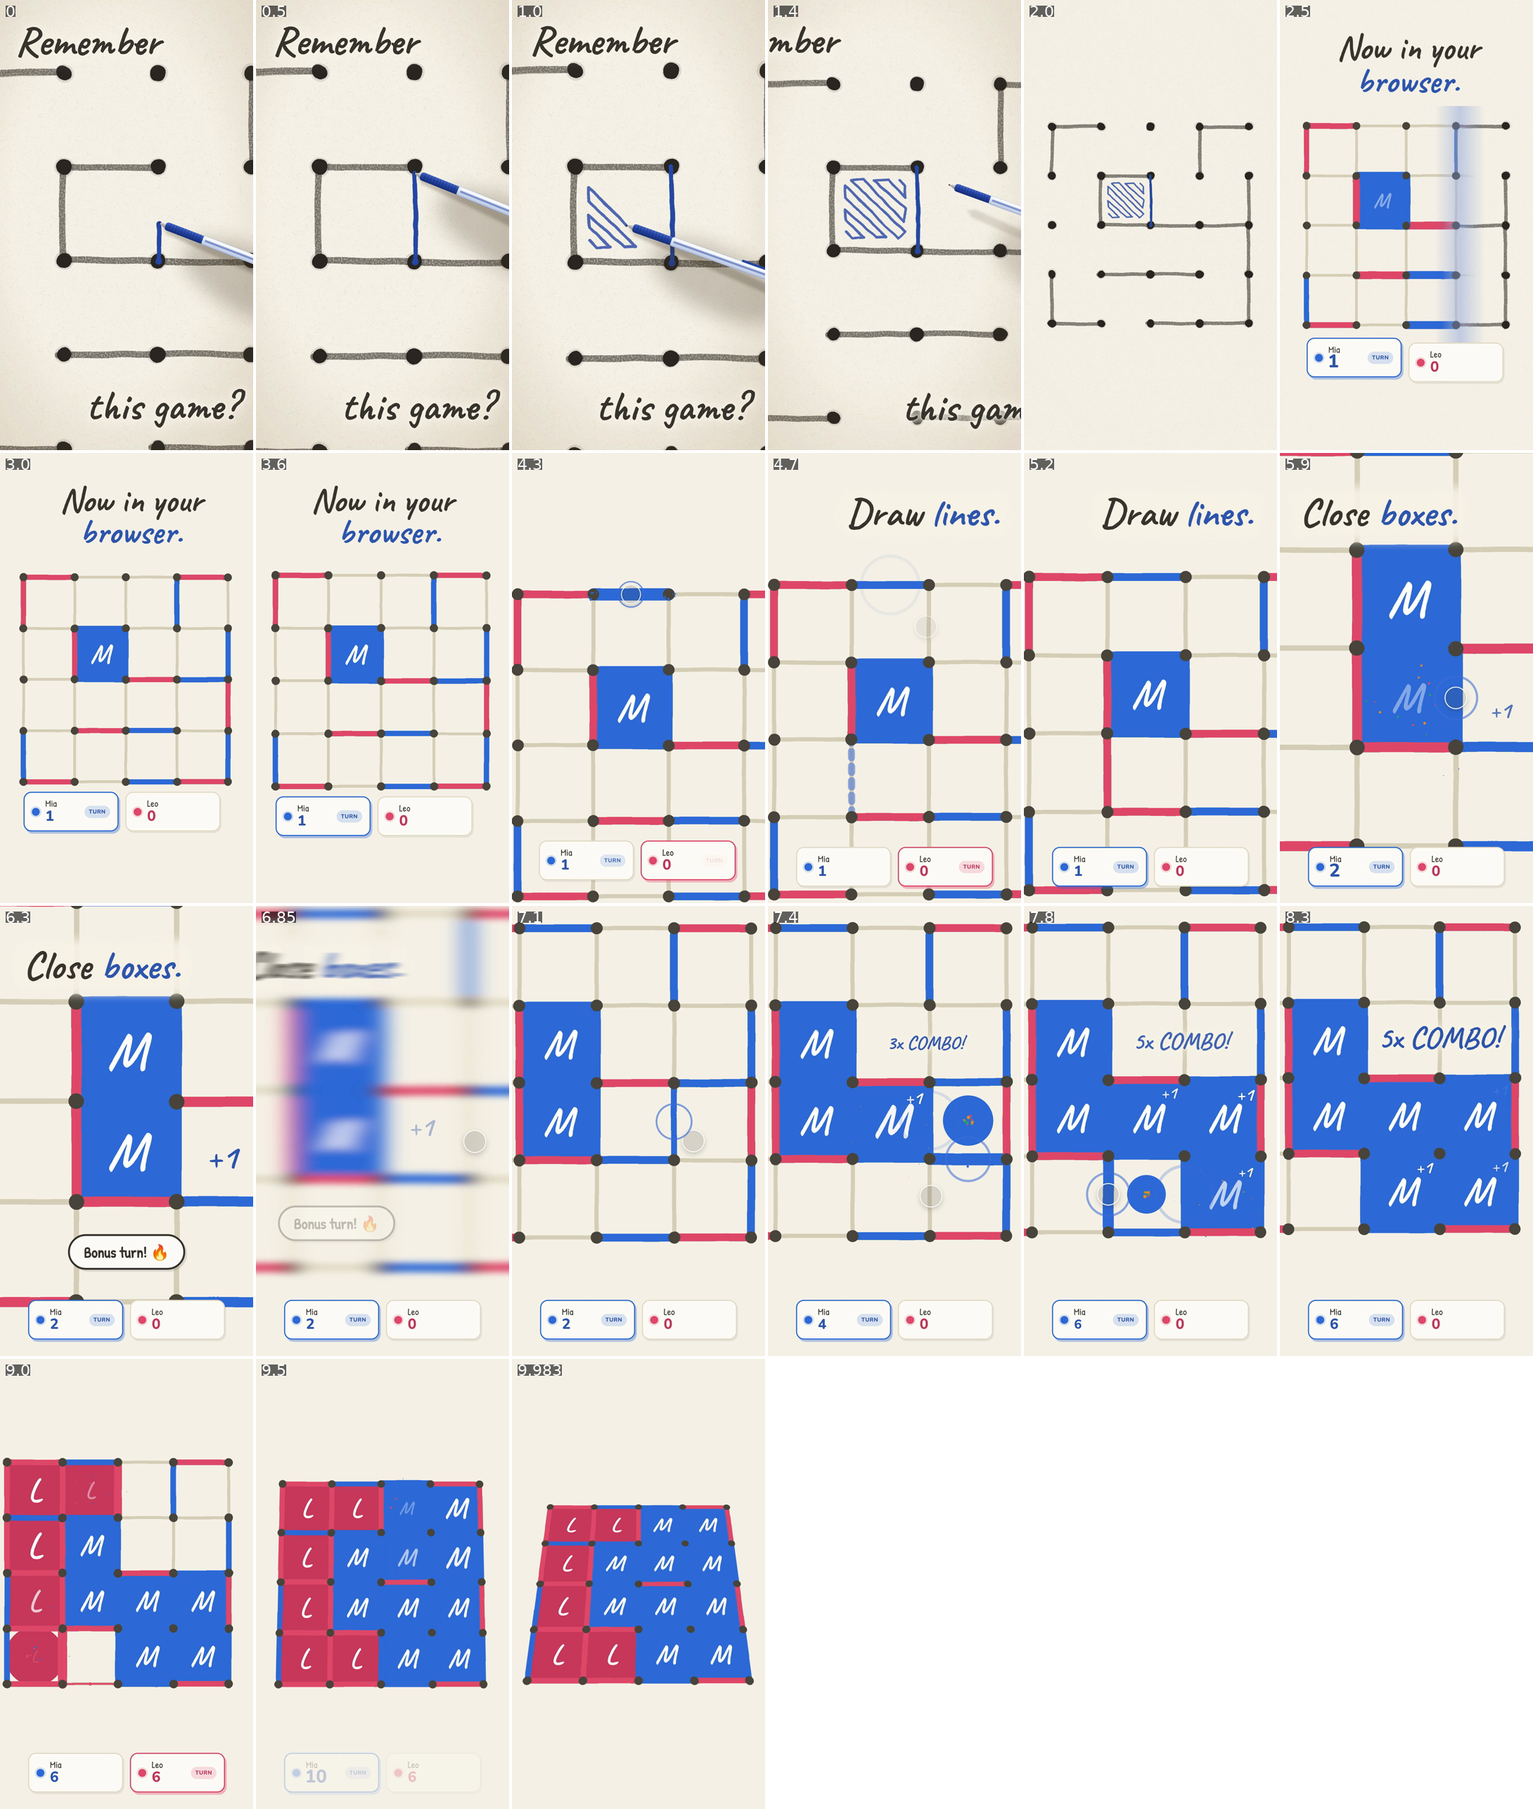
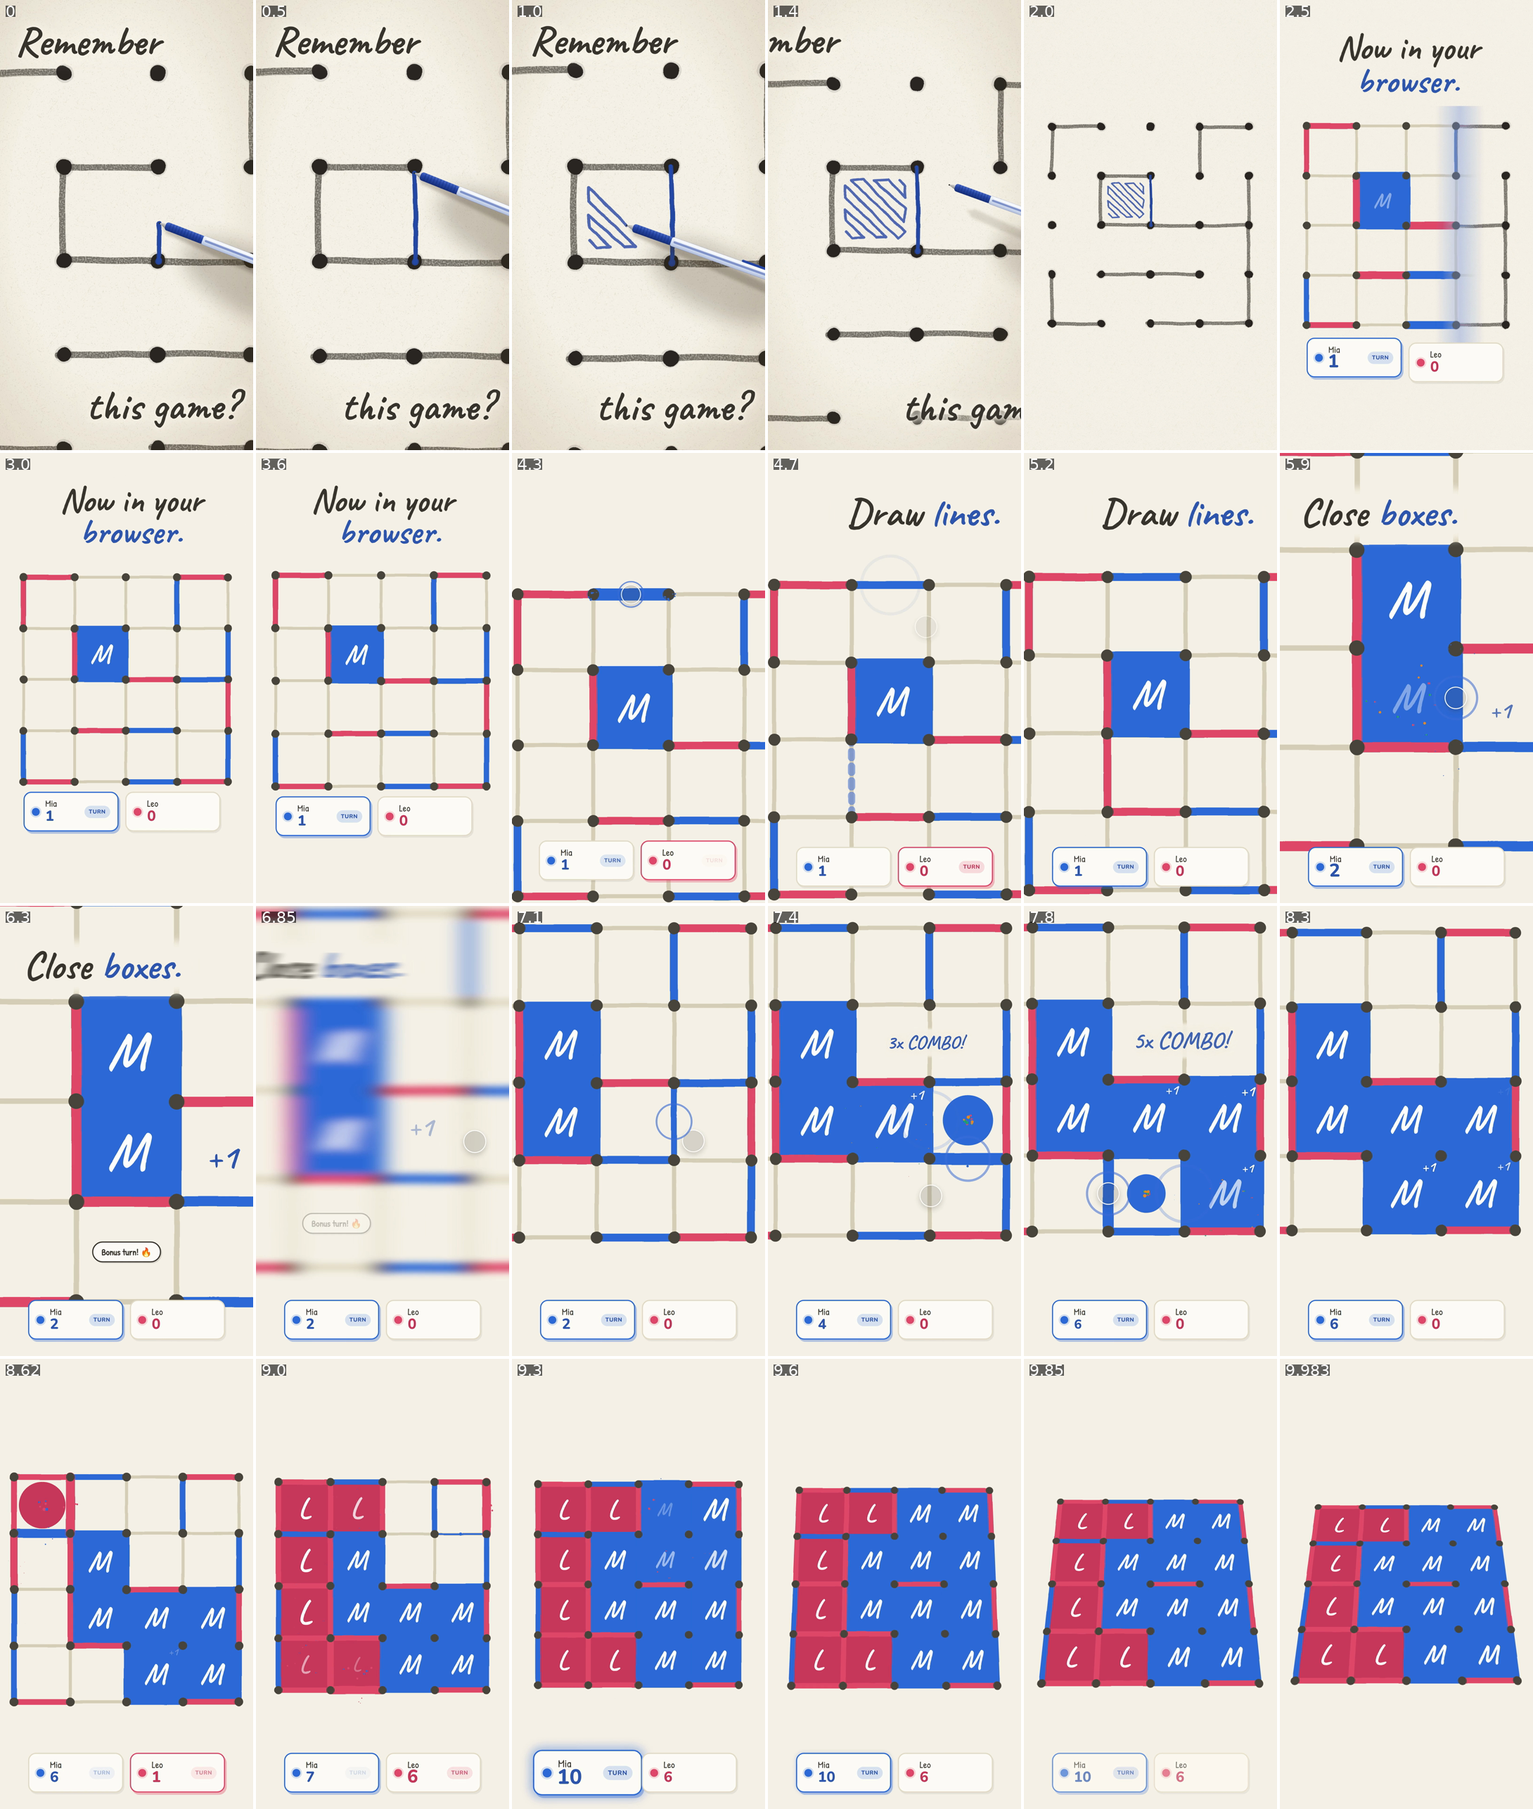
Board module: land the final score, reframe Leo's reply, paper masking under text
Claude-Session: https://claude.ai/code/session_015djpT82mPv6pF3coxQuzAb

diff --git a/promo/scenes/score3d.js b/promo/scenes/score3d.js
@@ -3,7 +3,7 @@
 import * as THREE from 'three';
 import { RoundedBoxGeometry } from 'three/addons/RoundedBoxGeometry.js';
 import { RoomEnvironment } from 'three/addons/RoomEnvironment.js';
-import { C, FILL, clamp, lerp, seg, smooth, smoother, outCubic, outBack, inCubic, outQuint, div, css } from '../shared/lib.js';
+import { C, FILL, clamp, lerp, seg, smooth, smoother, outCubic, outBack, inCubic, outQuint, cssBezier, div, css } from '../shared/lib.js';
 import { hand, PERSPECTIVE } from '../shared/handoff.js';
 import { loadGame, finalState, boardCanvas } from './score3d-board.js';
 import { spline, cfg } from './score3d-layout.js';
@@ -26,7 +26,7 @@ export default {
     const bcx = Cb.x + 2 * G, bcy = Cb.y + 2 * G;            // board centre in film px (= screen centre)
     const m = L.margin, S = 4 * G + 2 * m;                    // slab top face size
     const th = L.slabT, bh = L.baseH, bo = L.baseOut;         // slab thickness, base height, base outset
-    const groundY = -(th + bh);
+    const groundY = -(th + bh + 2 * k);
     const s = L.cube;                                         // cube edge
     const q = Math.min(2048 / S, 3);                          // texels per px
     const [cvA, cvB] = await Promise.all([
@@ -50,14 +50,14 @@ export default {
     scene.environmentIntensity = L.light.env;
 
     const fov0 = 2 * Math.atan((H / 2) / PERSPECTIVE) * 180 / Math.PI;
-    const camera = new THREE.PerspectiveCamera(fov0, W / H, 2, 20000);
+    const camera = new THREE.PerspectiveCamera(fov0, W / H, 20, 16000);
 
     // ---------------- lights: one big soft key upper-left-front, warm rim behind-right, soft sky fill ----------------
     // Lights are constant: only the top face's flat→lit blend changes at the hand-off, so nothing dims or pops.
     scene.add(new THREE.HemisphereLight(0xfff6e8, 0xd9ccb0, L.light.hemi));
     const key = new THREE.DirectionalLight(0xfffaf2, L.light.key);
     key.position.set(...L.light.keyPos); key.castShadow = true;
-    key.shadow.mapSize.set(4096, 4096); key.shadow.radius = 9; key.shadow.blurSamples = 16; key.shadow.bias = -0.0003; key.shadow.normalBias = 0.8;
+    key.shadow.mapSize.set(4096, 4096); key.shadow.radius = 9; key.shadow.blurSamples = 16; key.shadow.bias = -0.0008; key.shadow.normalBias = 2.0;
     const sc = key.shadow.camera; const ext = 1250 * k; sc.left = -ext; sc.right = ext; sc.top = ext; sc.bottom = -ext; sc.near = 200; sc.far = 8000 * k;
     scene.add(key); scene.add(key.target);
     const rim = new THREE.DirectionalLight(0xffb36b, L.light.rim); rim.position.set(...L.light.rimPos);
@@ -116,20 +116,43 @@ export default {
 
     // ---------------- cubes & towers ----------------
     const cubeGeo = new RoundedBoxGeometry(1, 1, 1, 5, L.cubeR / L.cube);
-    const cubeMat = {}, ghostMat = {};
-    for (const p of ['p1', 'p2']) {
-      cubeMat[p] = new THREE.MeshPhysicalMaterial({ color: new THREE.Color(L.cubeColor[p]), roughness: 0.34, metalness: 0, clearcoat: 0.7, clearcoatRoughness: 0.22 });
-      ghostMat[p] = [0.34, 0.18].map((o) => { const g = cubeMat[p].clone(); g.transparent = true; g.opacity = o; g.depthWrite = false; return g; });
-    }
-    // Mia's top cube: the camera dives onto its top face; the face is steered to flat brand blue on the last frames
-    const flyU = { uFlat: { value: 0 }, uFlatCol: { value: new THREE.Color(BLUE) } };
-    const flyMat = cubeMat.p1.clone();
-    flyMat.onBeforeCompile = (sh) => {
-      Object.assign(sh.uniforms, flyU);
-      sh.fragmentShader = sh.fragmentShader
-        .replace('#include <common>', '#include <common>\nuniform float uFlat; uniform vec3 uFlatCol;')
-        .replace('#include <dithering_fragment>', '#include <dithering_fragment>\n gl_FragColor.rgb = mix(gl_FragColor.rgb, sRGBTransferOETF(vec4(uFlatCol, 1.0)).rgb, uFlat);');
+    // Cube colour is brand-true by construction: the physical lighting (white albedo) only supplies a shading factor
+    // relative to a sunlit top face (uLref, measured below), applied to the brand colour in sRGB and written after
+    // tone mapping. Specular/clearcoat adds at most ~+33 levels. A sunlit top face therefore reads exactly FILL[p].
+    const srgbVec = (hex) => { const c = new THREE.Color(); c.setHex(parseInt(hex.slice(1), 16), THREE.NoColorSpace); return new THREE.Vector3(c.r, c.g, c.b); };
+    const cubeShared = { uLref: { value: 1 }, uCal: { value: 0 } };
+    const makeCubeMat = (p, fly) => {
+      const mat = new THREE.MeshPhysicalMaterial({ color: 0xffffff, roughness: 0.34, metalness: 0, clearcoat: 0.7, clearcoatRoughness: 0.22 });
+      const u = { ...cubeShared, uBrand: { value: srgbVec(L.cubeColor[p]) }, uFlat: { value: 0 }, uFlatCol: { value: srgbVec(BLUE) }, uSpec: { value: 1 } };
+      mat.userData.u = u;
+      mat.onBeforeCompile = (sh) => {
+        Object.assign(sh.uniforms, u);
+        sh.fragmentShader = sh.fragmentShader
+          .replace('#include <common>', '#include <common>\nuniform float uLref; uniform float uCal; uniform vec3 uBrand; uniform float uFlat; uniform vec3 uFlatCol; uniform float uSpec;')
+          .replace('#include <dithering_fragment>', `#include <dithering_fragment>
+            {
+              const vec3 LUM = vec3(0.2126, 0.7152, 0.0722);
+              float Ld = dot(totalDiffuse, LUM);
+              if (uCal > 0.5) { gl_FragColor.rgb = vec3(Ld / 4.0); }
+              else {
+                float sh = clamp(Ld / uLref, 0.0, 1.4);
+                float f = sh < 1.0 ? mix(0.66, 1.0, sh) : mix(1.0, 1.06, (sh - 1.0) / 0.4);
+                vec3 c = uBrand * f;
+                vec3 sp = totalSpecular;
+                #ifdef USE_CLEARCOAT
+                  sp += (clearcoatSpecularDirect + clearcoatSpecularIndirect) * material.clearcoat;
+                #endif
+                c += vec3(1.0 - exp(-dot(sp, LUM) * 1.5)) * 0.13 * uSpec;
+                gl_FragColor.rgb = mix(c, uFlatCol, uFlat);
+              }
+            }`);
+      };
+      mat.customProgramCacheKey = () => 'score3d-cube';
+      return mat;
     };
+    const cubeMat = { p1: makeCubeMat('p1'), p2: makeCubeMat('p2') };
+    // Mia's top cube: the camera dives onto its top face; the face is steered to flat brand blue on the last frames
+    const flyMat = makeCubeMat('p1', true), flyU = flyMat.userData.u;
     const towers = { p1: L.tower.p1, p2: L.tower.p2 };
     const towerBlobs = {};
     for (const p of ['p1', 'p2']) {
@@ -143,8 +166,7 @@ export default {
       const last = o === 'p1' && n === 9;
       const mesh = new THREE.Mesh(cubeGeo, last ? flyMat : cubeMat[o]);
       mesh.castShadow = true; mesh.receiveShadow = true; mesh.visible = false; scene.add(mesh);
-      const ghosts = ghostMat[o].map((gm) => { const g = new THREE.Mesh(cubeGeo, gm); g.visible = false; g.renderOrder = 2; scene.add(g); return g; });
-      return { bx, o, n, r, c, idx: r * 4 + c, mesh, ghosts, last,
+      return { bx, o, n, r, c, idx: r * 4 + c, mesh, last,
         x0: Cb.x + (c + 0.5) * G - bcx, z0: Cb.y + (r + 0.5) * G - bcy };
     });
     // launch schedule: intervals shrink (the stack accelerates); flight ≈ 1.9 × interval → ≤ 2 airborne
@@ -189,30 +211,31 @@ export default {
     const sph = (t) => ({ el: spline(t, L.cam.el, L.elV0) * Math.PI / 180, az: spline(t, L.cam.az) * Math.PI / 180, D: spline(t, L.cam.dist),
       tgt: new THREE.Vector3(spline(t, L.cam.tx), spline(t, L.cam.ty), spline(t, L.cam.tz)) });
     const place = (tgt, el, az, D) => camera.position.set(tgt.x + D * Math.cos(el) * Math.sin(az), tgt.y + D * Math.sin(el), tgt.z + D * Math.cos(el) * Math.cos(az));
+    const DIVE = cssBezier(0.72, 0, 0.9, 1);   // accelerating dive that settles over the last few frames
+    const T_DIVE_END = T_BLUE - 0.017;
     function camPose(t) {
-      const b = sph(t);
-      let tgt = b.tgt, el = b.el, az = b.az, D = b.D, fov = fov0;
+      const b = sph(t), fovB = spline(t, L.cam.fov);
       if (t > T_DIVE) {
-        // camera dive onto the top face of Mia's tower: accelerating, face-on, FOV narrows a little
-        const u = seg(t, T_DIVE, T_BLUE - 0.085);
+        // camera dive onto the top face of Mia's tower. At u = 0 this is exactly the base pose (position, target, FOV);
+        // the camera is re-expressed in spherical coordinates about the face and moves in from there.
+        const u = seg(t, T_DIVE, T_DIVE_END);
         place(b.tgt, b.el, b.az, b.D);
         const o = camera.position.clone().sub(face), d0 = o.length();
         const el0 = Math.asin(o.y / d0), az0 = Math.atan2(o.x, o.z);
-        const fov1 = fov0 * 0.8;
+        const fov1 = fovB * 0.8;
         const tanMax = Math.tan(fov1 * Math.PI / 360) * Math.max(1, W / H);
-        const d1 = 0.62 * (s / 2 - L.cubeR) / tanMax;
-        const eo = smoother(u), ed = Math.pow(u, 2.0);
-        tgt = b.tgt.clone().lerp(face, smoother(clamp(u * 1.15)));
-        el = lerp(el0, 84 * Math.PI / 180, eo); az = lerp(az0, 0, eo);
-        const dd = d0 * Math.pow(d1 / d0, ed) * (1 - 0.06 * seg(t, T_BLUE - 0.085, T_BLUE));  // keep creeping in while the face turns flat blue
-        fov = lerp(fov0, fov1, smooth(u));
-        camera.fov = fov; camera.updateProjectionMatrix();
-        place(tgt, el, az, dd);
+        const d1 = 0.5 * (s / 2 - L.cubeR) / tanMax;
+        const e = DIVE(u), eo = smoother(u);
+        const tgt = b.tgt.clone().lerp(face, eo);
+        const el = lerp(el0, 84 * Math.PI / 180, eo), az = lerp(az0, 0, eo);
+        const dd = d0 * Math.pow(d1 / d0, e);
+        camera.fov = lerp(fovB, fov1, eo); camera.updateProjectionMatrix();
+        camera.position.set(face.x + dd * Math.cos(el) * Math.sin(az), face.y + dd * Math.sin(el), face.z + dd * Math.cos(el) * Math.cos(az));
         camera.up.set(0, 1, 0); camera.lookAt(tgt); camera.updateMatrixWorld(true);
         return;
       }
-      if (camera.fov !== fov) { camera.fov = fov; camera.updateProjectionMatrix(); }
-      place(tgt, el, az, D); camera.up.set(0, 1, 0); camera.lookAt(tgt); camera.updateMatrixWorld(true);
+      if (camera.fov !== fovB) { camera.fov = fovB; camera.updateProjectionMatrix(); }
+      place(b.tgt, b.el, b.az, b.D); camera.up.set(0, 1, 0); camera.lookAt(b.tgt); camera.updateMatrixWorld(true);
     }
 
     function cubeAt(cb, t, mesh) {
@@ -233,19 +256,10 @@ export default {
       mesh.rotation.copy(eul); mesh.scale.set(sxx, syy, sxx);
       return u;
     }
-    const pA = new THREE.Vector3();
     function poseCube(cb, t) {
-      if (t < cb.t0) { cb.mesh.visible = false; cb.ghosts.forEach((g) => (g.visible = false)); return; }
+      if (t < cb.t0) { cb.mesh.visible = false; return; }
       cb.mesh.visible = true;
-      const u = cubeAt(cb, t, cb.mesh);
-      // light motion blur: two trailing sub-frame samples while the cube moves fast
-      pA.copy(cb.mesh.position);
-      cb.ghosts.forEach((g, j) => {
-        if (u <= 0 || u >= 1) { g.visible = false; return; }
-        cubeAt(cb, t - (j + 1) / 150, g);
-        const dist = g.position.distanceTo(pA);
-        g.visible = dist > 5 * k; g.material.opacity = [0.34, 0.18][j] * clamp((dist - 5 * k) / (14 * k));
-      });
+      cubeAt(cb, t, cb.mesh);
     }
 
     function pose(t) {
@@ -253,10 +267,10 @@ export default {
       topU.uFlat.value = 1 - smoother(seg(t, T0, T0 + 0.5));
       const grow = smoother(seg(t, T0, T0 + 0.5));
       const thN = th * grow, bhN = bh * grow;
-      slab.visible = thN > 0.05; slab.scale.set(S, Math.max(thN, 0.01), S); slab.position.y = -thN / 2 - 0.25;
+      slab.visible = thN > 0.05; slab.scale.set(S, Math.max(thN, 0.01), S); slab.position.y = -thN / 2 - 2 * k;  // top sits clearly below the textured face (no z-fighting)
       const bw = S + 2 * bo * grow;
-      base.visible = bhN > 0.05; base.scale.set(bw, Math.max(bhN, 0.01), bw); base.position.y = -thN - bhN / 2 - 0.25;
-      ground.position.y = -thN - bhN - 0.3;
+      base.visible = bhN > 0.05; base.scale.set(bw, Math.max(bhN, 0.01), bw); base.position.y = -thN - bhN / 2 - 2 * k;
+      ground.position.y = -thN - bhN - 2 * k - 0.3;
       baseBlob.position.y = ground.position.y + 0.3; baseBlob.scale.set(bw * 1.1, bw * 1.1, 1); baseBlob.material.opacity = 0.34 * grow;
       shadowMat.opacity = 0.26 * grow;
       for (const p in towerBlobs) towerBlobs[p].position.y = ground.position.y + 0.35;
@@ -269,13 +283,14 @@ export default {
         towerBlobs[p].material.opacity = 0.62 * smoother(seg(t, landT(first) - 0.08, landT(first) + 0.05));
       }
       flyU.uFlat.value = smoother(seg(t, T_BLUE - 0.075, T_BLUE - 0.017));
+      flyU.uSpec.value = 1 - smoother(seg(t, T_DIVE + 0.05, T_DIVE + 0.3));  // no hotspot on the face that becomes the field
     }
 
     // lit paper must read paper-warm: calibrate the top material so its lit paper matches TOP_LIT (measured on the GPU)
     {
       const gl = renderer.getContext(), buf = new Uint8Array(4 * 25);
       const tgt = new THREE.Color(TOP_LIT);
-      pose(T0 + 0.6); topU.uFlat.value = 0; cubes.forEach((c) => { c.mesh.visible = false; c.ghosts.forEach((g) => (g.visible = false)); });
+      pose(T0 + 0.6); topU.uFlat.value = 0; cubes.forEach((c) => { c.mesh.visible = false; });
       const sp = project(0, 0, S / 2 - m * 0.5);
       for (let it = 0; it < 4; it++) {
         renderer.render(scene, camera);
@@ -288,13 +303,24 @@ export default {
       }
     }
 
+    // cube shading reference: luminance of the white-albedo lighting on a sunlit top face (Mia's top cube at 13.4)
+    {
+      const gl = renderer.getContext(), buf = new Uint8Array(4 * 25);
+      pose(13.4); cubeShared.uCal.value = 1;
+      const sp = project(face.x, face.y, face.z);
+      renderer.render(scene, camera);
+      gl.readPixels(Math.round(sp.x) - 2, H - 1 - Math.round(sp.y) - 2, 5, 5, gl.RGBA, gl.UNSIGNED_BYTE, buf);
+      let a = 0; for (let i = 0; i < 25; i++) a += buf[i * 4 + 1]; a /= 25 * 255;
+      cubeShared.uLref.value = Math.max(0.05, 4 * a); cubeShared.uCal.value = 0;
+    }
+
     function overlay(t) {
       const tops = {};
       for (const p of ['p1', 'p2']) {
         const lc = lastOf[p], R = restPose(lc);
         tops[p] = project(towers[p].x, R.y + s / 2 + L.chipLift, R.z);
         const ta = landT(lc) + 0.02;
-        const a = seg(t, ta, ta + 0.38), out = seg(t, T_DIVE - 0.16, T_DIVE + 0.02);
+        const a = seg(t, ta, ta + 0.38), out = seg(t, T_DIVE - 0.24, T_DIVE - 0.04);
         const e = chips[p];
         if (a <= 0 || out >= 1) { e.style.visibility = 'hidden'; continue; }
         e.style.visibility = 'visible';
@@ -305,7 +331,7 @@ export default {
         e.style.opacity = clamp(a * 3) * (1 - inCubic(out));
       }
       // "Mia Wins!" — placed relative to the projected top of Mia's tower
-      const wa = seg(t, 12.6, 13.05), wo = seg(t, T_DIVE - 0.14, T_DIVE + 0.06);
+      const wa = seg(t, 12.6, 13.05), wo = seg(t, T_DIVE - 0.26, T_DIVE - 0.06);
       if (wa <= 0 || wo >= 1) win.style.visibility = 'hidden';
       else {
         win.style.visibility = 'visible';

diff --git a/promo/scenes/score3d-layout.js b/promo/scenes/score3d-layout.js
@@ -17,6 +17,7 @@ export function spline(t, ks, slope0 = 0) {
 
 // camera keys: [time, value]; the final keys continue gently past the dive start so the spline never stops.
 const keys = (arr) => arr.map((v, i) => [TK[i], v]);
+const FOV0 = (half) => 2 * Math.atan(half / PERSPECTIVE) * 180 / Math.PI; // handoff FOV
 const EL0 = 90 - TILT_DEG; // camera elevation that reproduces the CSS tilt at the cut
 const TK = [10.0, 10.8, 11.6, 12.3, 13.0, 13.5, 14.0];
 
@@ -26,7 +27,7 @@ export function cfg(V, k) {
   const cube = 0.7 * G;
   const base = {
     margin: 0.42 * G, slabT: 16 * k, baseH: 30 * k, baseOut: 22 * k, baseColor: C.ink,
-    elV0: EL_V0, cube, cubeR: 0.17 * cube, cubeColor: { p1: '#1d5cc7', p2: FILL.p2 },  // p1 steered so the LIT top face reads #2f6bd8
+    elV0: EL_V0, cube, cubeR: 0.17 * cube, cubeColor: { p1: FILL.p1, p2: FILL.p2 },  // brand-true: a sunlit top face reads exactly these (see score3d.js)
     arc: 0.42 * cube + 20 * k, chipLift: 0.22 * cube,
     firstLaunch: 10.28, gap0: 0.19, gap1: 0.09,
     // key: big soft sun from upper-left-front (shadows fall right/back); warm rim behind-right; soft sky fill
@@ -41,7 +42,8 @@ export function cfg(V, k) {
       cam: {
         el: keys([EL0, 48, 46, 43.5, 40, 38, 37]),
         az: keys([0, 7, 13, 18, 22, 25, 26]),
-        dist: keys([PERSPECTIVE, ...[1330, 1400, 1490, 1550, 1500, 1480].map((v) => v * k)]),
+        fov: keys([0, 0, 0, 0, 0, 0, 0].map(() => FOV0(540))),
+        dist: keys([PERSPECTIVE, ...[1330, 1400, 1490, 1560, 1560, 1540].map((v) => v * k)]),
         tx: keys([0, 70, 20, 30, 115, 145, 155].map((v) => v * k)),
         ty: keys([0, 50, 100, 150, 175, 185, 190].map((v) => v * k)),
         tz: keys([0, 10, 20, 30, 45, 50, 52].map((v) => v * k)),
@@ -57,10 +59,11 @@ export function cfg(V, k) {
     tower: { p2: { x: -1.05 * G, z: tz }, p1: { x: 1.05 * G, z: tz } },
     cam: {
       el: keys([EL0, 49, 47, 44.5, 41, 39, 38]),
-      az: keys([0, 4, 7, 9, 11, 12, 12]),
-      dist: keys([PERSPECTIVE, 2000, 2100, 2120, 2060, 2020, 2000]),
+      az: keys([0, 8, 16, 22, 26, 28, 28]),
+      fov: keys([FOV0(960), 47, 43, 42, 42, 42, 42]),
+      dist: keys([PERSPECTIVE, 2450, 2600, 2600, 2540, 2500, 2480]),
       tx: keys([0, -20, -40, -40, -30, -30, -30]),
-      ty: keys([0, 20, 40, 70, 95, 100, 100]),
+      ty: keys([0, 80, 170, 270, 330, 340, 340]),
       tz: keys([0, 150, 280, 380, 430, 440, 442]),
     },
     winSize: 132, winFrom: -160,
